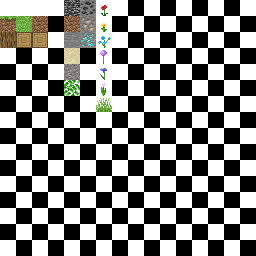
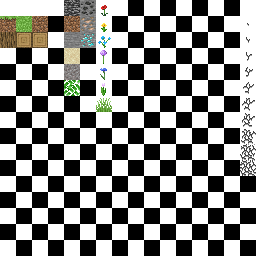
block break animations + creative pick add rm blocks

Changed region(s): [[0.9375, 0.3125, 1.0, 0.6875], [0.9375, 0.1875, 1.0, 0.2812], [0.9375, 0.0625, 1.0, 0.125]]

diff --git a/Sources/Chunk.cpp b/Sources/Chunk.cpp
@@ -223,7 +223,7 @@ void Chunk::generate_blocks( void )
 				if (value == blocks::GRASS_BLOCK && level != 255) {
 					int block_above = _blocks[(row * (CHUNK_SIZE + 2) + col) * WORLD_HEIGHT + level + 1];
 					if (block_above && block_above < blocks::POPPY) {
-						_blocks[(row * (CHUNK_SIZE + 2) + col) * WORLD_HEIGHT + level] = blocks::DIRT_BLOCK;
+						_blocks[(row * (CHUNK_SIZE + 2) + col) * WORLD_HEIGHT + level] = blocks::DIRT;
 					}
 				}
 			}
@@ -316,8 +316,12 @@ void Chunk::remove_block( Inventory *inventory, glm::ivec3 pos )
 			}
 		}
 	}
-	if (endZ != -1 || (pos.z < 255 && block_above >= blocks::POPPY)) { // del flower if block underneath deleted
+	if (endZ != -1) { // sand fall
 		remove_block(NULL, glm::ivec3(pos.x, pos.y, pos.z + 1));
+	} else if (pos.z < 255 && block_above >= blocks::POPPY) { // del flower if block underneath deleted
+		(block_above == blocks::GRASS)
+			? remove_block(NULL, glm::ivec3(pos.x, pos.y, pos.z + 1)) // if grass above breaked block, don't collect it
+			: remove_block(inventory, glm::ivec3(pos.x, pos.y, pos.z + 1));
 	}
 	// std::cout << "nb displayed blocks after: " << _displayed_blocks << std::endl;
 }
@@ -328,7 +332,7 @@ void Chunk::add_block( Inventory *inventory, glm::ivec3 pos, int type )
 	// std::cout << "nb displayed blocks before: " << _displayed_blocks << std::endl;
 	if (type >= blocks::POPPY && pos.z - 1 > 0) {
 		int block_below = _blocks[((pos.x + 1) * (CHUNK_SIZE + 2) + pos.y + 1) * WORLD_HEIGHT + pos.z - 1];
-		if (block_below != blocks::GRASS_BLOCK && block_below != blocks::DIRT_BLOCK && block_below != blocks::SAND) {
+		if (block_below != blocks::GRASS_BLOCK && block_below != blocks::DIRT && block_below != blocks::SAND) {
 			return ; // can't place flower on something else than grass/dirt block
 		}
 	}
@@ -374,11 +378,12 @@ void Chunk::fill_vertex_array( void )
 					// 	std::cout << "ERROR index is " << index / 5 << std::endl;
 					// }
 					_vertices[index] = block_type;
-					_vertices[index + 1] = get_empty_faces(row + 1, col + 1, level, block_type != blocks::OAK_LEAVES);
-					_vertices[index + 2] = _startX + row;
-					_vertices[index + 3] = _startY + col;
-					_vertices[index + 4] = level;
-					index += 5;
+					_vertices[index + 1] = 0;
+					_vertices[index + 2] = get_empty_faces(row + 1, col + 1, level, block_type != blocks::OAK_LEAVES);
+					_vertices[index + 3] = _startX + row;
+					_vertices[index + 4] = _startY + col;
+					_vertices[index + 5] = level;
+					index += 6;
 				}
 			}
 		}
@@ -399,24 +404,23 @@ void Chunk::setup_array_buffer( void )
 	glBindVertexArray(_vao);
 
 	glBindBuffer(GL_ARRAY_BUFFER, _vbo);
-	glBufferData(GL_ARRAY_BUFFER, _displayed_blocks * 5 * sizeof(GLint), _vertices, GL_STATIC_DRAW);
+	glBufferData(GL_ARRAY_BUFFER, _displayed_blocks * 6 * sizeof(GLint), _vertices, GL_STATIC_DRAW);
 
-	delete [] _vertices;
-	_vertices = NULL;
+	// delete [] _vertices;
+	// _vertices = NULL;
 	_vaoReset = true;
-	// check_glstate("Vertex buffer successfully created");
 
 	glEnableVertexAttribArray(BLOCKATTRIB);
-	glVertexAttribIPointer(BLOCKATTRIB, 1, GL_INT, 5 * sizeof(GLint), 0);
-	// check_glstate("blockAttrib successfully set");
+	glVertexAttribIPointer(BLOCKATTRIB, 1, GL_INT, 6 * sizeof(GLint), 0);
+	
+	glEnableVertexAttribArray(BREAKATTRIB);
+	glVertexAttribIPointer(BREAKATTRIB, 1, GL_INT, 6 * sizeof(GLint), (void *)(sizeof(GLint)));
 	
 	glEnableVertexAttribArray(ADJATTRIB);
-	glVertexAttribIPointer(ADJATTRIB, 1, GL_INT, 5 * sizeof(GLint), (void *)(sizeof(GLint)));
-	// check_glstate("adjAttrib successfully set");
+	glVertexAttribIPointer(ADJATTRIB, 1, GL_INT, 6 * sizeof(GLint), (void *)(2 * sizeof(GLint)));
 
 	glEnableVertexAttribArray(POSATTRIB);
-	glVertexAttribIPointer(POSATTRIB, 3, GL_INT, 5 * sizeof(GLint), (void *)(2 * sizeof(GLint)));
-	// check_glstate("posAttrib successfully set");
+	glVertexAttribIPointer(POSATTRIB, 3, GL_INT, 6 * sizeof(GLint), (void *)(3 * sizeof(GLint)));
 
 	check_glstate("NO");
 }
@@ -448,11 +452,11 @@ void Chunk::generation( void )
 {
 	_blocks = new GLint[(CHUNK_SIZE + 2) * (CHUNK_SIZE + 2) * WORLD_HEIGHT];
 	generate_blocks();
-	_vertices = new GLint[_displayed_blocks * 5]; // blocktype, adjacents blocks, X Y Z
+	_vertices = new GLint[_displayed_blocks * 6]; // blocktype, adjacents blocks, X Y Z
 	fill_vertex_array();
 }
 
-void Chunk::regeneration( Inventory *inventory, glm::ivec3 pos, bool adding )
+void Chunk::regeneration( Inventory *inventory, int type, glm::ivec3 pos, bool adding )
 {
 	if (!adding) {
 		if (_blocks[((pos.x + 1) * (CHUNK_SIZE + 2) + pos.y + 1) * WORLD_HEIGHT + pos.z] == blocks::BEDROCK) { // can't rm bedrock
@@ -460,16 +464,13 @@ void Chunk::regeneration( Inventory *inventory, glm::ivec3 pos, bool adding )
 		}
 		remove_block(inventory, pos);
 	} else {
-		mtx_inventory.lock();
-		int type = inventory->getCurrentSlot();
-		mtx_inventory.unlock();
 		if (_blocks[((pos.x + 1) * (CHUNK_SIZE + 2) + pos.y + 1) * WORLD_HEIGHT + pos.z] != blocks::AIR || type == blocks::AIR) { // can't replace block
 			return ;
 		}
 		add_block(inventory, pos, type);
 	}
 	delete [] _vertices;
-	_vertices = new GLint[_displayed_blocks * 5]; // blocktype, adjacents blocks, X Y Z
+	_vertices = new GLint[_displayed_blocks * 6]; // blocktype, adjacents blocks, X Y Z
 	fill_vertex_array();
 	_mtx.lock();
 	_vaoReset = false;
@@ -523,12 +524,12 @@ int Chunk::isHit( glm::ivec3 pos )
 	return (_blocks[((chunk_pos.x + 1) * (CHUNK_SIZE + 2) + chunk_pos.y + 1) * WORLD_HEIGHT + chunk_pos.z]);
 }
 
-static void thread_modif_block( Chunk *current, Inventory *inventory, glm::ivec3 pos, bool adding )
+static void thread_modif_block( Chunk *current, Inventory *inventory, int type, glm::ivec3 pos, bool adding )
 {
-	current->regeneration(inventory, pos, adding);
+	current->regeneration(inventory, type, pos, adding);
 }
 
-void Chunk::handleHit( Inventory *inventory, glm::ivec3 pos, bool adding )
+void Chunk::handleHit( Inventory *inventory, int type, glm::ivec3 pos, bool adding )
 {
 
 	glm::ivec3 chunk_pos = glm::ivec3(pos.x - _startX, pos.y - _startY, pos.z);
@@ -539,7 +540,29 @@ void Chunk::handleHit( Inventory *inventory, glm::ivec3 pos, bool adding )
 	if (_thread.joinable()) {
 		_thread.join();
 	}
-	_thread = std::thread(thread_modif_block, this, inventory, chunk_pos, adding);
+	_thread = std::thread(thread_modif_block, this, inventory, type, chunk_pos, adding);
+}
+
+void Chunk::updateBreak( glm::ivec4 block_hit, int frame )
+{
+	glm::ivec3 chunk_pos = glm::ivec3(block_hit.x - _startX, block_hit.y - _startY, block_hit.z);
+	if (chunk_pos.x < 0 || chunk_pos.x >= CHUNK_SIZE || chunk_pos.y < 0 || chunk_pos.y >= CHUNK_SIZE || chunk_pos.z < 0 || chunk_pos.z > 255) {
+		std::cout << "ERROR block hit out of chunk " << chunk_pos.x << ", " << chunk_pos.y << ", " << chunk_pos.z << std::endl;
+		return ;
+	}
+	if (_thread.joinable()) {
+		_thread.join();
+	}
+	for (int index = 0; index < _displayed_blocks * 6; index += 6) {
+		_mtx.lock();
+		if (_vertices[index + 3] == block_hit.x && _vertices[index + 4] == block_hit.y && _vertices[index + 5] == block_hit.z) {
+			_vaoReset = false;
+			_vertices[index + 1] = frame;
+			_mtx.unlock();
+			return ;
+		}
+		_mtx.unlock();
+	}
 }
 
 bool Chunk::collision( glm::vec3 &pos, Camera &cam )
@@ -598,7 +621,6 @@ void Chunk::drawArray( GLint & counter )
 			return ;
 		}
 		setup_array_buffer();
-		// return ;// TODO decide if this changes something
 		_mtx.lock();
 	}
     glBindVertexArray(_vao); // this is the costly operation, chunk_size up == fps down

diff --git a/Sources/inputs.cpp b/Sources/inputs.cpp
@@ -3,6 +3,7 @@
 // extern OpenGL_Manager *render;
 Camera camera(glm::vec3(1.0f, -2.0f, 66.0f));
 Chunk *current_chunk_ptr = NULL;
+Chunk *chunk_hit = NULL;
 Inventory *scroll_inventory = NULL;
 double lastX = WIN_WIDTH / 2.0f;
 double lastY = WIN_HEIGHT / 2.0f;
@@ -79,6 +80,7 @@ glm::ivec4 OpenGL_Manager::get_block_hit( void )
 		// std::cout << "current_chunk should be " << current_chunk.x << ", " << current_chunk.y << std::endl;
 		int value = chunk->isHit(i);
 		if (value) {
+			chunk_hit = chunk;
 			return (glm::ivec4(i, (value > 0) ? value : value + blocks::NOTVISIBLE));
 		}
 		previous_chunk = current_chunk;
@@ -100,8 +102,8 @@ void OpenGL_Manager::handle_add_rm_block( bool adding, bool collect )
 				Chunk *chunk = c;
 				// std::cout << "handle hit at pos " << _block_hit.x << ", " << _block_hit.y << ", " << _block_hit.z << std::endl;
 				(collect)
-					? chunk->handleHit(_inventory, glm::ivec3(_block_hit.x, _block_hit.y, _block_hit.z), adding)
-					: chunk->handleHit(NULL, glm::ivec3(_block_hit.x, _block_hit.y, _block_hit.z), adding);
+					? chunk->handleHit(_inventory, 0, glm::ivec3(_block_hit.x, _block_hit.y, _block_hit.z), adding)
+					: chunk->handleHit(NULL, 0, glm::ivec3(_block_hit.x, _block_hit.y, _block_hit.z), adding);
 				return ;
 			}
 		}
@@ -109,7 +111,8 @@ void OpenGL_Manager::handle_add_rm_block( bool adding, bool collect )
 		return ;
 	}
 	// from now on adding = true
-	if (_inventory->getCurrentSlot() == blocks::AIR) {
+	int type = _inventory->getCurrentSlot();
+	if (type == blocks::AIR) {
 		// std::cout << "can't add block if no object in inventory" << std::endl;
 		return ;
 	}
@@ -150,10 +153,14 @@ void OpenGL_Manager::handle_add_rm_block( bool adding, bool collect )
 				return ;
 			}
 			if (previous_chunk != current_chunk) {
-				prev_chunk->handleHit(_inventory, previous_block, adding);
+				(collect)
+						? prev_chunk->handleHit(_inventory, type, previous_block, adding)
+						: prev_chunk->handleHit(NULL, type, previous_block, adding);
 				return ;
 			}
-			chunk->handleHit(_inventory, previous_block, adding);
+			(collect)
+					? chunk->handleHit(_inventory, type, previous_block, adding)
+					: chunk->handleHit(NULL, type, previous_block, adding);
 			return ;
 		}
 		previous_block = i;
@@ -327,21 +334,51 @@ void OpenGL_Manager::user_inputs( float deltaTime )
 			_break_time += deltaTime;
 			if (_block_hit.w != blocks::AIR && _break_time >= s_blocks[_block_hit.w].break_time_hand) {
 				handle_add_rm_block(false, s_blocks[_block_hit.w].byHand); // collect in inventory if byhand allowed, will later use tools
+			} else {
+				int break_frame = static_cast<int>(10 * _break_time / s_blocks[_block_hit.w].break_time_hand) + 1;
+				if (_break_frame != break_frame) {
+					if (chunk_hit) {
+						chunk_hit->updateBreak(_block_hit, break_frame);
+					}
+					_break_frame = break_frame;
+				}
 			}
 		} else if (++_key_rm_block == 1) {
-			handle_add_rm_block(false, true);
+			handle_add_rm_block(false, false);
 		}
 	} else if (glfwGetMouseButton(_window, GLFW_MOUSE_BUTTON_LEFT) == GLFW_RELEASE) {
 		_key_rm_block = 0;
 		_break_time = 0;
+		if (_break_frame && chunk_hit) {
+			chunk_hit->updateBreak(_block_hit, 0);
+		}
+		_break_frame = 0;
 	}
 	if (_key_rm_block != 1 && glfwGetMouseButton(_window, GLFW_MOUSE_BUTTON_RIGHT) && ++_key_add_block == 1) { // I don't want to try to del and add at the same time
-		handle_add_rm_block(true, true);
+		handle_add_rm_block(true, _game_mode == SURVIVAL);
 	} else if (glfwGetMouseButton(_window, GLFW_MOUSE_BUTTON_RIGHT) == GLFW_RELEASE) {
 		_key_add_block = 0;
 	}
 	if (glfwGetKey(_window, GLFW_KEY_Q) == GLFW_PRESS) {
 		_inventory->removeBlock();
+	}
+	if (_game_mode == CREATIVE && _block_hit.w != blocks::AIR && _key_rm_block != 1 && _key_add_block != 1
+		&& glfwGetMouseButton(_window, GLFW_MOUSE_BUTTON_MIDDLE) && ++_key_pick_block == 1) { // pick up in creative mode
+		_inventory->replaceSlot(_block_hit.w);
+	} else if (glfwGetMouseButton(_window, GLFW_MOUSE_BUTTON_MIDDLE) == GLFW_RELEASE) {
+		_key_pick_block = 0;
+	}
+
+	// update block hit
+	Chunk *save_chunk = chunk_hit;
+	glm::ivec4 block_hit = get_block_hit();
+	if (_block_hit != block_hit) {
+		if (_break_frame && save_chunk) {
+			save_chunk->updateBreak(_block_hit, 0);
+		}
+		_block_hit = block_hit;
+		_break_time = 0;
+		_break_frame = 0;
 	}
 
 	if (glfwGetKey(_window, GLFW_KEY_F) == GLFW_PRESS && ++_key_fill == 1) {

diff --git a/Sources/OpenGL_Manager.cpp b/Sources/OpenGL_Manager.cpp
@@ -6,11 +6,11 @@ extern Camera camera;
 OpenGL_Manager::OpenGL_Manager( void )
 	: _window(NULL), _textures(NULL), _background_color(0.0f, 0.0f, 0.0f),
 		_key_rdist(0), _render_distance(RENDER_DISTANCE),
-		_key_fill(0), _fill(FILL), _key_add_block(0), _key_rm_block(0),
+		_key_fill(0), _fill(FILL), _key_add_block(0), _key_rm_block(0), _key_pick_block(0),
 		_key_h(0), _key_g(0), _key_j(0), _key_1(0), _key_2(0), _key_3(0),
 		_key_4(0), _key_5(0), _key_6(0), _key_7(0), _key_8(0), _key_9(0),
 		_debug_mode(true), _game_mode(CREATIVE), _f5_mode(false),
-		_break_time(0), _block_hit(glm::ivec4(0, 0, 0, blocks::AIR))
+		_break_time(0), _break_frame(0), _block_hit(glm::ivec4(0, 0, 0, blocks::AIR))
 {
 	std::cout << "Constructor of OpenGL_Manager called" << std::endl << std::endl;
 	_inventory = new Inventory();
@@ -156,6 +156,7 @@ void OpenGL_Manager::create_shaders( void )
 	glBindFragDataLocation(_shaderProgram, 0, "outColor");
 
 	glBindAttribLocation(_shaderProgram, BLOCKATTRIB, "block_type");
+	glBindAttribLocation(_shaderProgram, BREAKATTRIB, "break_frame");
 	glBindAttribLocation(_shaderProgram, ADJATTRIB, "adj_blocks");
 	glBindAttribLocation(_shaderProgram, POSATTRIB, "position");
 
@@ -259,11 +260,6 @@ void OpenGL_Manager::main_loop( void )
 		}
 
 		user_inputs(currentTime - previousFrame);
-		glm::ivec4 block_hit = get_block_hit();
-		if (_block_hit != block_hit) {
-			_block_hit = block_hit;
-			_break_time = 0;
-		}
 		// chunk_update(); moved this into user_inputs for collision detection purposes
 		previousFrame = currentTime;
 		
@@ -285,7 +281,7 @@ void OpenGL_Manager::main_loop( void )
 			? "FPS: " + std::to_string(nbFramesLastSecond) + camera.getCamString(_game_mode)
 				+ "\nBlock\t> " + ((_block_hit.w >= blocks::AIR) ? s_blocks[_block_hit.w].name : s_blocks[_block_hit.w + blocks::NOTVISIBLE].name)
 				+ ((_block_hit.w != blocks::AIR) ? "\n\t\t> x: " + std::to_string(_block_hit.x) + " y: " + std::to_string(_block_hit.y) + " z: " + std::to_string(_block_hit.z) : "\n")
-				+ ((_game_mode == SURVIVAL) ? "\nBreak time\t> " + std::to_string(_break_time) : "")
+				+ ((_game_mode == SURVIVAL) ? "\nBreak time\t> " + std::to_string(_break_time) + "\nBreak frame\t> " + std::to_string(_break_frame) : "")
 				+ "\nChunk\t> x: " + std::to_string(_current_chunk.x) + " y: " + std::to_string(_current_chunk.y)
 				+ "\nDisplayed chunks > " + std::to_string(_visible_chunks.size())
 				+ '/' + std::to_string(_chunks.size())

diff --git a/Includes/Chunk.hpp b/Includes/Chunk.hpp
@@ -22,7 +22,7 @@ enum blocks {
 	GRASS_BLOCK,
 	OAK_TRUNK,
 	BEDROCK = 16,
-	DIRT_BLOCK,
+	DIRT,
 	STONE,
 	SAND,
 	GRAVEL,
@@ -98,13 +98,14 @@ class Chunk
 		GLint getStartX( void );
 		GLint getStartY( void );
 		void generation( void );
-		void regeneration( Inventory *inventory, glm::ivec3 pos, bool adding );
+		void regeneration( Inventory *inventory, int type, glm::ivec3 pos, bool adding );
 		void generate_chunk( std::list<Chunk *> *chunks );
         void setVisibility( std::list<Chunk *> *visible_chunks, int posX, int posY, GLint render_dist );
         bool shouldDelete( glm::vec3 pos, GLfloat dist );
         bool isInChunk( int posX, int posY );
 		int isHit( glm::ivec3 pos );
-		void handleHit( Inventory *inventory, glm::ivec3 pos, bool adding );
+		void handleHit( Inventory *inventory, int type, glm::ivec3 pos, bool adding );
+		void updateBreak( glm::ivec4 block_hit, int frame );
 		bool collision( glm::vec3 & pos, Camera &cam );
         void drawArray( GLint & counter );
 };

diff --git a/Includes/OpenGL_Manager.hpp b/Includes/OpenGL_Manager.hpp
@@ -13,6 +13,7 @@
 
 enum {
 	BLOCKATTRIB,
+	BREAKATTRIB,
 	ADJATTRIB,
 	POSATTRIB
 };
@@ -41,9 +42,10 @@ class OpenGL_Manager
 		glm::ivec2 _current_chunk;
 		GLuint *_textures;
 		glm::vec3 _background_color;
-		GLint _key_rdist, _render_distance, _key_fill, _fill, _key_add_block, _key_rm_block, _key_h, _key_g, _key_j, _key_1, _key_2, _key_3, _key_4, _key_5, _key_6, _key_7, _key_8, _key_9;
+		GLint _key_rdist, _render_distance, _key_fill, _fill, _key_add_block, _key_rm_block, _key_pick_block, _key_h, _key_g, _key_j, _key_1, _key_2, _key_3, _key_4, _key_5, _key_6, _key_7, _key_8, _key_9;
 		bool _debug_mode, _game_mode, _f5_mode;
 		float _break_time;
+		int _break_frame;
 		std::list<Chunk *> _chunks;
 		std::list<Chunk *> _visible_chunks;
 		std::list<Chunk *> _delete_chunks;

diff --git a/Sources/Inventory.cpp b/Sources/Inventory.cpp
@@ -59,6 +59,9 @@ void Inventory::setModif( bool value )
 
 void Inventory::addBlock( int type )
 {
+	if (type == blocks::GRASS_BLOCK) {
+		type = blocks::DIRT;
+	}
     glm::ivec2 current = _content[_slot];
     if ((current.x == blocks::AIR || current.x == type) && current.y != 64) {
         _content[_slot].x = type;
@@ -97,4 +100,10 @@ std::string Inventory::getInventoryString( void )
         res += "\nslot " + std::to_string(index) + '<' + std::to_string(current.x) + "> times " + std::to_string(current.y);
     }
     return (res);
+}
+
+void Inventory::replaceSlot( int type )
+{
+	_content[_slot] = glm::ivec2(type, 1);
+	_modif = true;
 }

diff --git a/Includes/Inventory.hpp b/Includes/Inventory.hpp
@@ -20,6 +20,7 @@ class Inventory
 		void setModif( bool value );
         void addBlock( int type );
         void removeBlock( void );
+		void replaceSlot( int type );
 
         std::string getInventoryString( void );
 };
